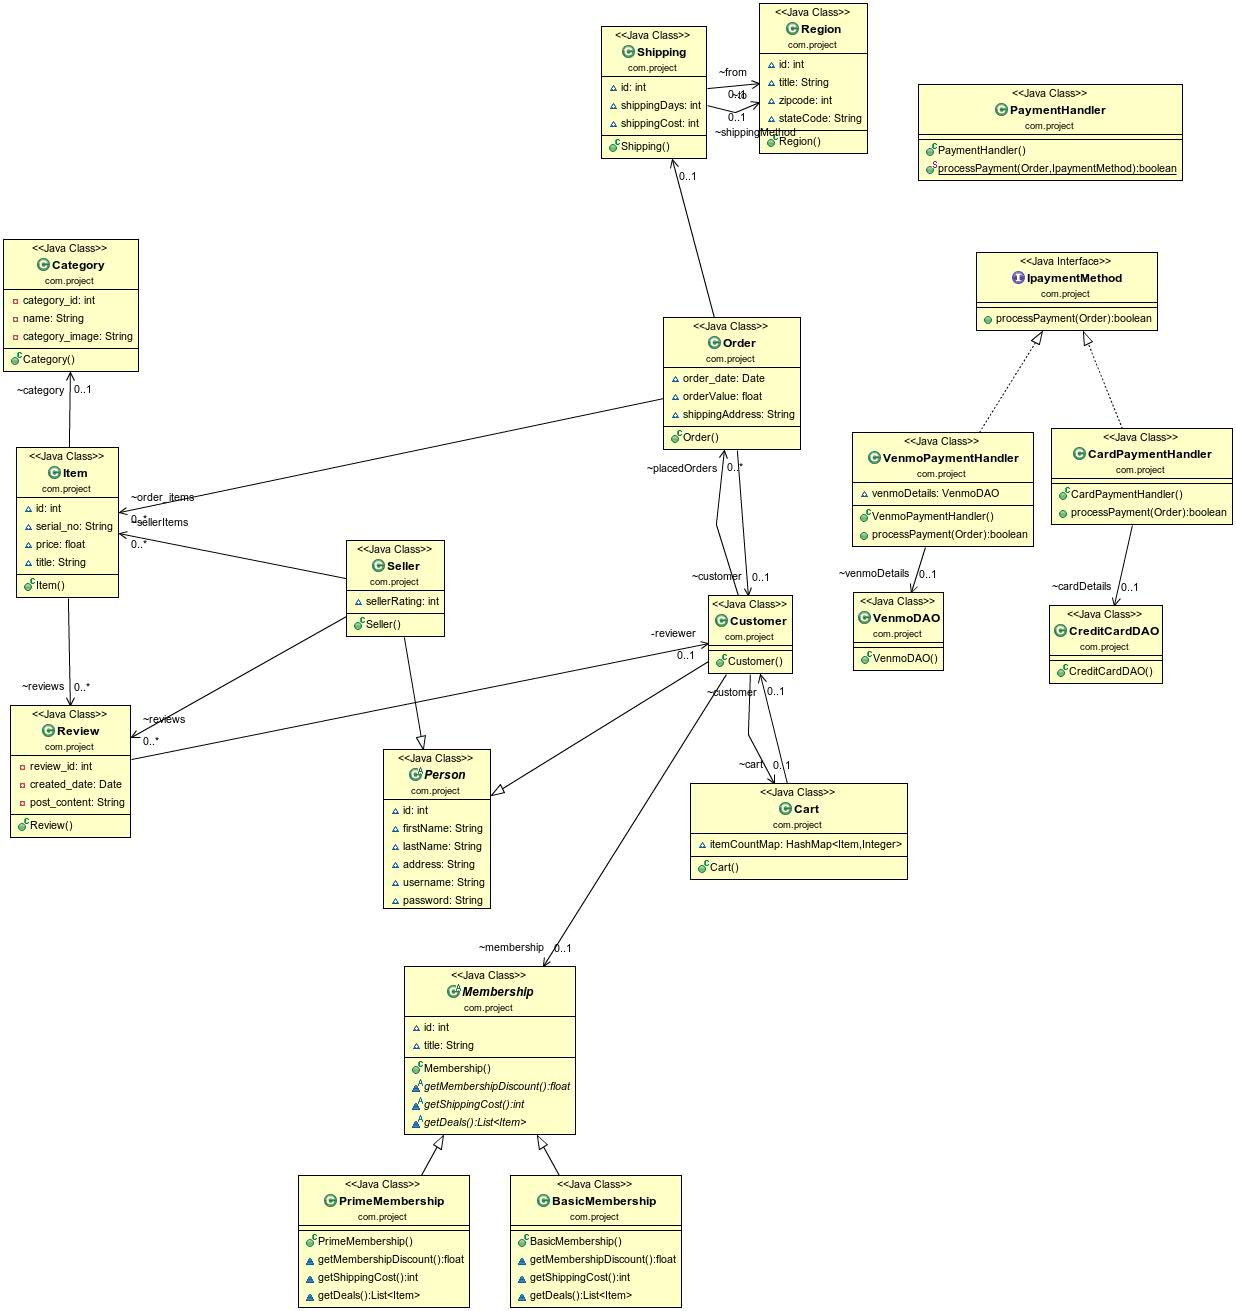
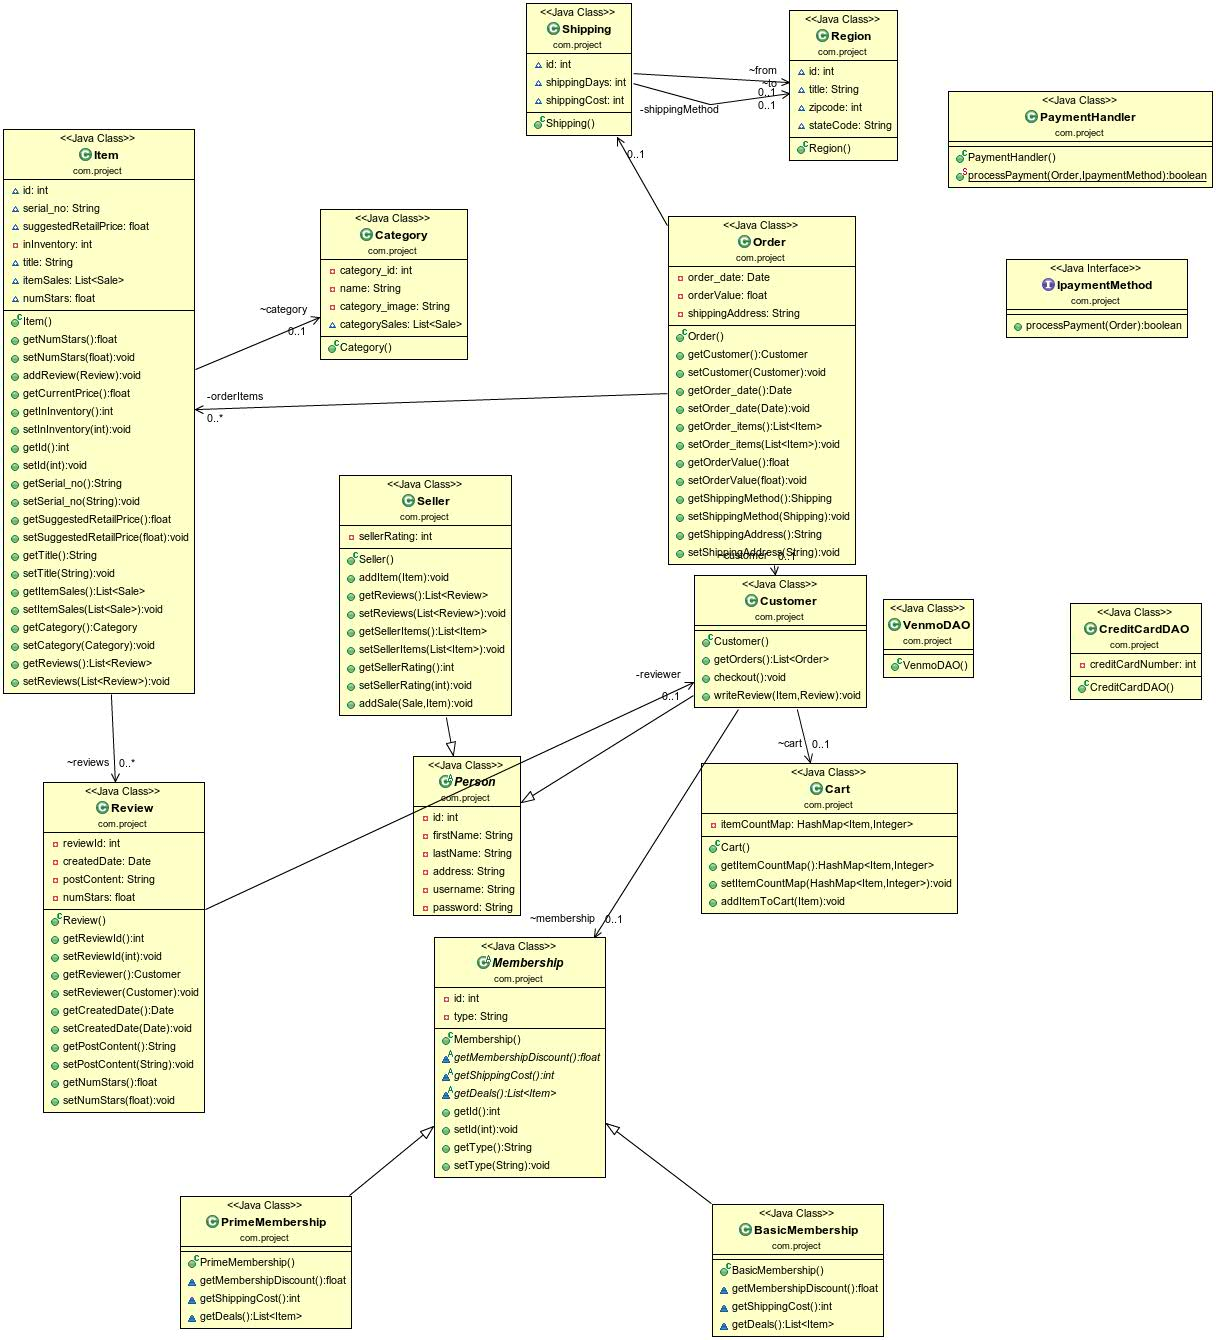
adding changes

diff --git a/OOAD/src/com/project/Order.java b/OOAD/src/com/project/Order.java
@@ -6,8 +6,8 @@ import java.util.List;
 public class Order {
 
 	private Customer customer;
-	private Date order_date;
-	private List<Item> order_items;
+	private Date orderDate;
+	private List<Item> orderItems;
 	private float orderValue;
 	private Shipping shippingMethod;
 	private String shippingAddress;
@@ -19,16 +19,16 @@ public class Order {
 		this.customer = customer;
 	}
 	public Date getOrder_date() {
-		return order_date;
+		return orderDate;
 	}
-	public void setOrder_date(Date order_date) {
-		this.order_date = order_date;
+	public void setOrder_date(Date orderDate) {
+		this.orderDate = orderDate;
 	}
 	public List<Item> getOrder_items() {
-		return order_items;
+		return orderItems;
 	}
-	public void setOrder_items(List<Item> order_items) {
-		this.order_items = order_items;
+	public void setOrder_items(List<Item> orderItems) {
+		this.orderItems = orderItems;
 	}
 	public float getOrderValue() {
 		return orderValue;
